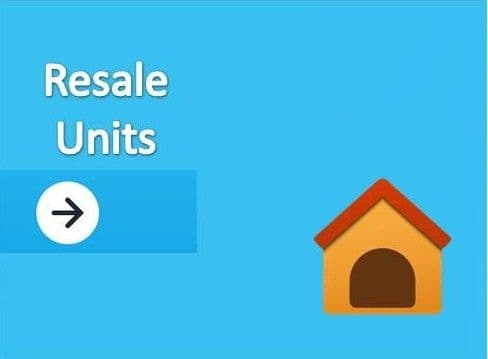
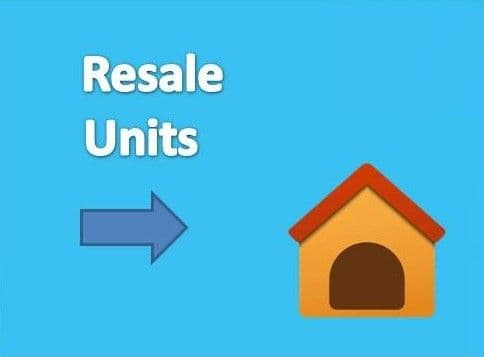
pics upgraded

diff --git a/index.html b/index.html
@@ -89,7 +89,7 @@
           <div class="col-6 col-lg-3 px-2">
             <div class="background_image mb-3">
               <a href="http://example.com/">
-                <img class="rounded_border" src="pic1.jpg" width="100%" alt="">
+                <img class="rounded_border" src="pic4.jpg" width="100%" alt="">
               </a>
             </div>
           </div>
@@ -220,17 +220,33 @@
             <h3 class="mb-4 d-none d-lg-block"><strong>Conventional forms of property</strong></h3>
             <h6 class="mb-4 d-lg-none"><strong>Conventional forms of property</strong></h6>
           </div>
-          <div class="col-12 col-lg-3">
-            <a href="#" class="text-secondary mb-3">Gold as Property</a>
+          <div class="col-12 col-lg-3 mb-3">
+            <a href="#" class="text-secondary">Gold as Property >></a>
           </div>
-          <div class="col-12 col-lg-3">
-            <a href="#" class="text-secondary mb-3">Stocks as Property</a>
+          <div class="col-12 col-lg-3 mb-3">
+            <a href="#" class="text-secondary">Stocks as Property >></a>
           </div>
-          <div class="col-12 col-lg-3">
-            <a href="#" class="text-secondary mb-3">Savings as Property</a>
+          <div class="col-12 col-lg-3 mb-3">
+            <a href="#" class="text-secondary">Savings as Property >></a>
           </div>
-          <div class="col-12 col-lg-3">
-            <a href="#" class="text-secondary mb-3">Housing as Property</a>
+          <div class="col-12 col-lg-3 mb-3">
+            <a href="#" class="text-secondary">Housing as Property >></a>
+          </div>
+          <div class="col-12 mt-3">
+            <h3 class="mb-4 d-none d-lg-block"><strong>Online Property Hangouts</strong></h3>
+            <h6 class="mb-4 d-lg-none"><strong>Online Property Hangouts</strong></h6>
+          </div>
+          <div class="col-12 col-lg-3 mb-3">
+            <a href="#" class="text-secondary">Financial Planning >></a>
+          </div>
+          <div class="col-12 col-lg-3 mb-3">
+            <a href="#" class="text-secondary">Expert Opinion >></a>
+          </div>
+          <div class="col-12 col-lg-3 mb-3">
+            <a href="#" class="text-secondary">Consultation >></a>
+          </div>
+          <div class="col-12 col-lg-3 mb-3">
+            <a href="#" class="text-secondary">Networking & Skills >></a>
           </div>
         </div>
       </div>
@@ -240,21 +256,61 @@
       <div class="container">
         <div class="row mx-0">
           <div class="col-12">
-            <h3 class="mb-4 d-none d-lg-block"><strong>Online Property Hangouts</strong></h3>
-            <h6 class="mb-4 d-lg-none"><strong>Online Property Hangouts</strong></h6>
+            <h3 class="mb-4 d-none d-lg-block"><strong>Services in Bangalore</strong></h3>
+            <h6 class="mb-4 d-lg-none"><strong>Services in Bangalore</strong></h6>
+            <p class="text-secondary services_in">
+              <a href="#" class="text-secondary mr-2">Send packages in Anjanapura</a>
+              &#8226;
+              <a href="#" class="text-secondary mx-2">Send packages in Arekere</a>
+              &#8226;
+              <a href="#" class="text-secondary mx-2">Send packages in Bellandur</a>
+              &#8226;
+              <a href="#" class="text-secondary mx-2">Send packages in Basavanagudi</a>
+              &#8226;
+              <a href="#" class="text-secondary mx-2">Send packages in Cox Town</a>
+              &#8226;
+              <a href="#" class="text-secondary mx-2">Send packages in Ulsoor</a>
+              &#8226;	
+              <a href="#" class="text-secondary mx-2">Send packages in Binnipet</a>	
+              &#8226;	
+              <a href="#" class="text-secondary mx-2">Send packages in Nagawara</a>	
+              &#8226;	
+              <a href="#" class="text-secondary mx-2">Send packages in Hebbal</a>	
+              &#8226;	
+              <a href="#" class="text-secondary mx-2">Send packages in Indiranagar</a>	
+              &#8226;	
+              <a href="#" class="text-secondary mx-2">Send packages in Chickpet</a>	
+              &#8226;	
+              <a href="#" class="text-secondary mx-2">Send packages in Haramavu</a>	
+              &#8226;	
+              <a href="#" class="text-secondary mx-2">Send packages in Harlur</a>	
+              &#8226;	
+              <a href="#" class="text-secondary mx-2">Send packages in Kudlu</a>	
+              &#8226;	
+              <a href="#" class="text-secondary mx-2">Send packages in MG Road</a>	
+              &#8226;	
+              <a href="#" class="text-secondary mx-2">Send packages in Pattandur</a>	
+              &#8226;	
+              <a href="#" class="text-secondary mx-2">Send packages in Hoodi</a>	
+              &#8226;	
+              <a href="#" class="text-secondary mx-2">Send packages in Jayanagar</a>	
+              &#8226;	
+              <a href="#" class="text-secondary mx-2">Send packages in Nagarbhavi</a>	
+              &#8226;	
+              <a href="#" class="text-secondary mx-2">Send packages in Brookefield</a>	
+              &#8226;	
+              <a href="#" class="text-secondary mx-2">Send packages in White Field</a>	
+              &#8226;	
+              <a href="#" class="text-secondary mx-2">Send packages in Victoria Layout</a>	
+              &#8226;	
+              <a href="#" class="text-secondary mx-2">Send packages in Akshay Nagar</a>	
+              &#8226;	
+              <a href="#" class="text-secondary mx-2">Send packages in Aswath Nagar</a>	
+              &#8226;	
+              <a href="#" class="text-secondary mx-2">Send packages in BTM Stage 1</a>	
+            </p>
           </div>
-          <div class="col-12 col-lg-3">
-            <a href="#" class="text-secondary mb-3">Financial Planning</a>
-          </div>
-          <div class="col-12 col-lg-3">
-            <a href="#" class="text-secondary mb-3">Expert Opinion</a>
-          </div>
-          <div class="col-12 col-lg-3">
-            <a href="#" class="text-secondary mb-3">Consultation</a>
-          </div>
-          <div class="col-12 col-lg-3">
-            <a href="#" class="text-secondary mb-3">Networking Skills</a>
-          </div>
+            
         </div>
       </div>
     </div>
